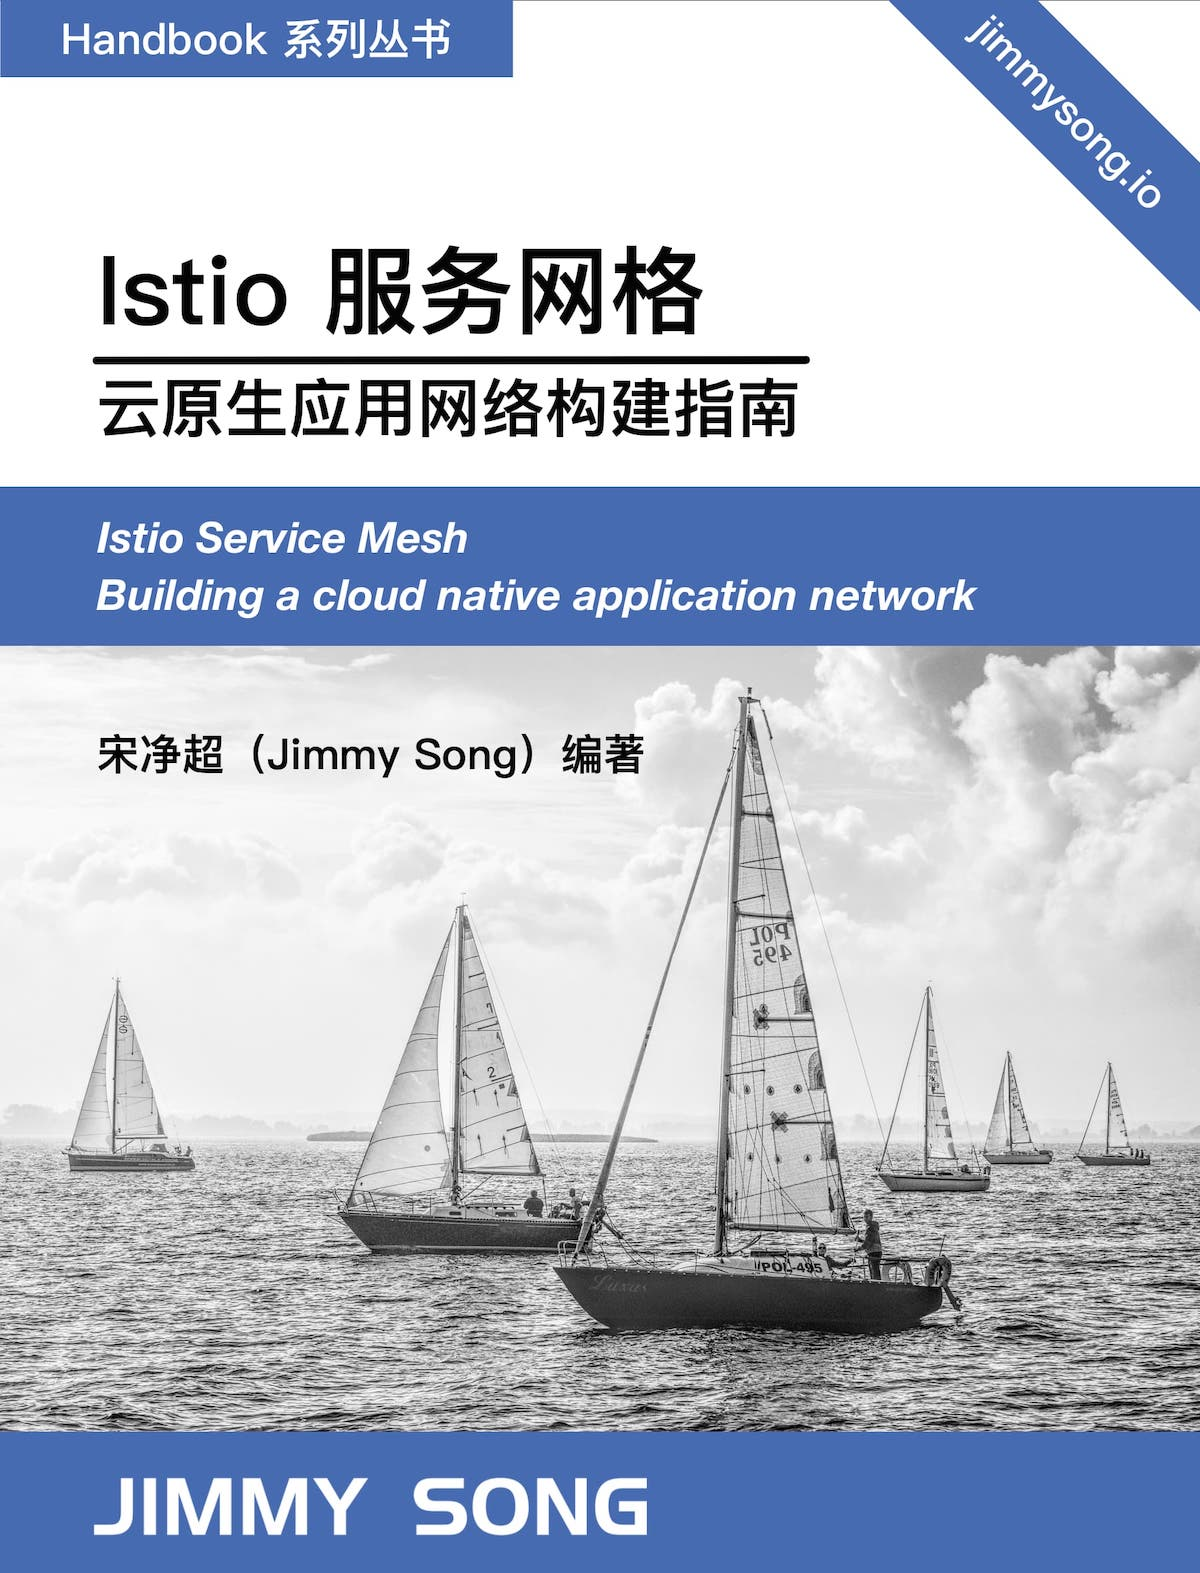
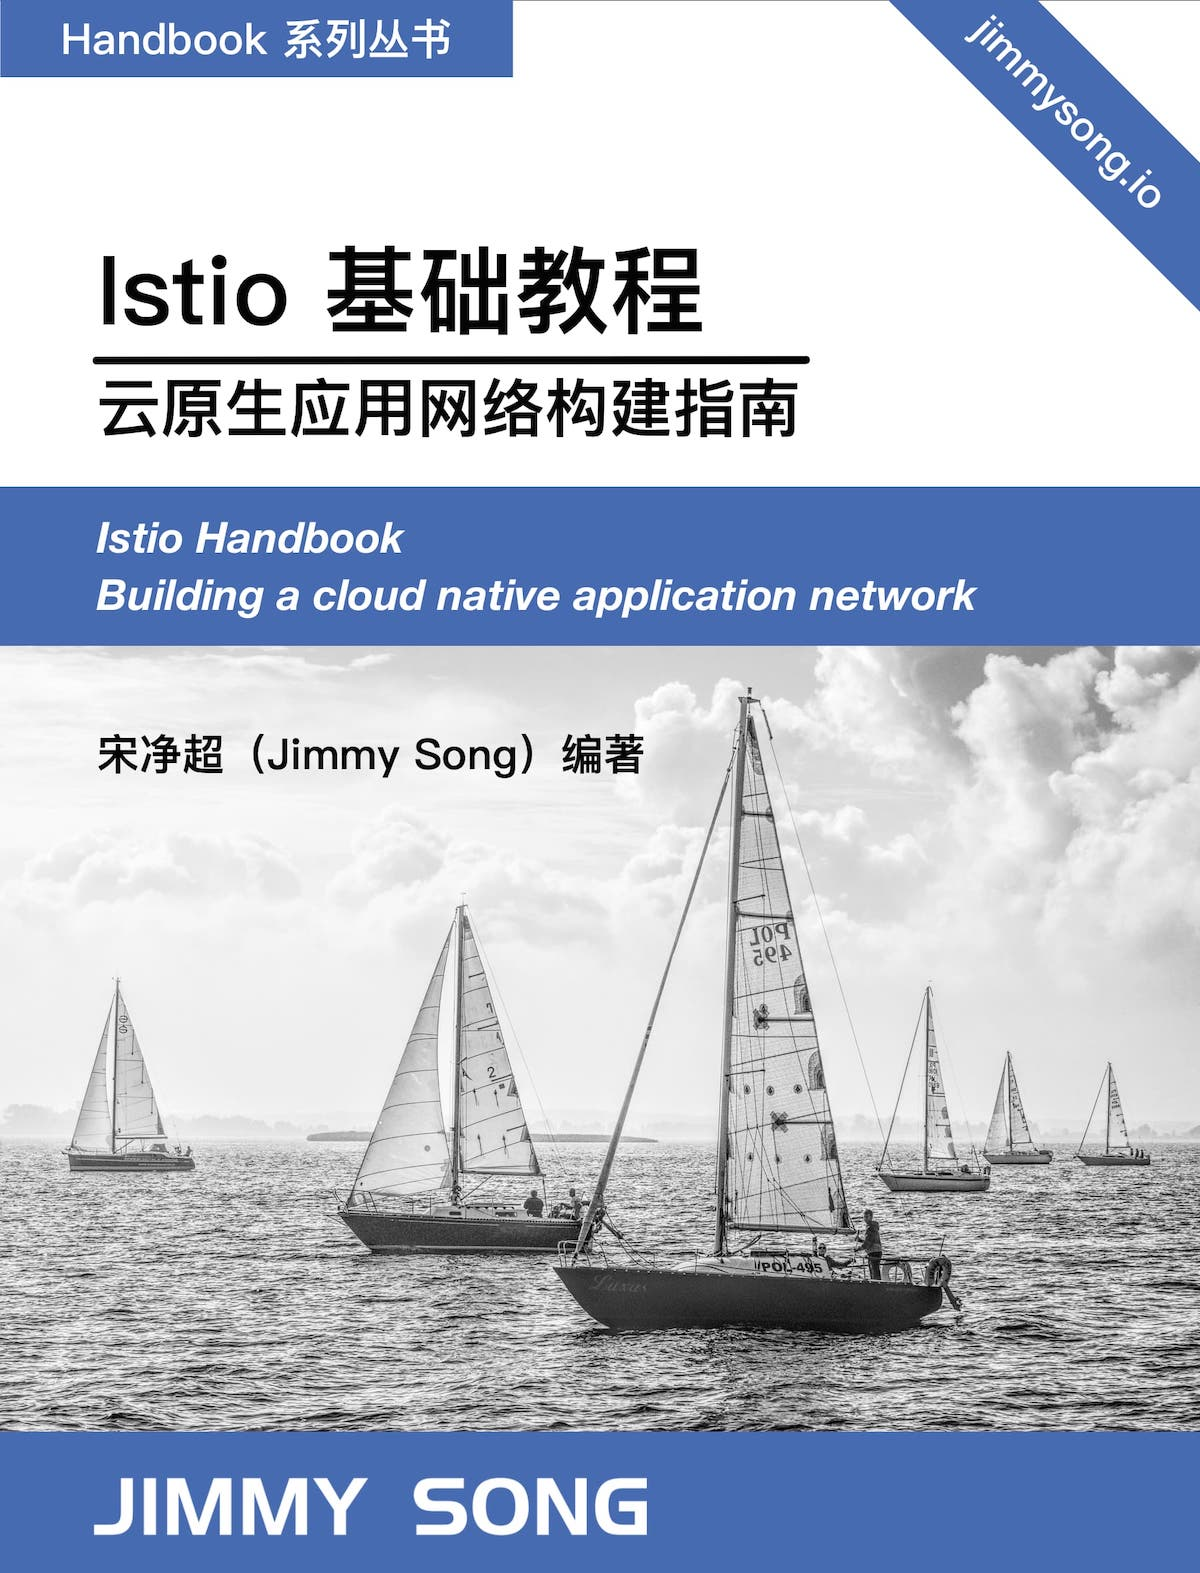
update title

Changed region(s): [[0.2775, 0.1558, 0.5858, 0.2181], [0.1542, 0.3115, 0.4008, 0.3738]]

diff --git a/content/istio-handbook/_index.md b/content/istio-handbook/_index.md
@@ -1,10 +1,10 @@
 ---
-linktitle: Istio服务网格基础教程
+linktitle: Istio基础教程
 summary: 云原生应用网络构建指南。
 weight: 1
 icon: book
 icon_pack: fas
-title: Istio服务网格基础教程
+title: Istio基础教程
 date: '2022-05-18T00:00:00+08:00'
 type: book # Do not modify.
 ---

diff --git a/content/book/istio-handbook/index.md b/content/book/istio-handbook/index.md
@@ -1,5 +1,5 @@
 ---
-title: Istio服务网格基础教程🔥
+title: Istio基础教程🔥
 summary: 云原生应用网络构建指南
 tags:
   - handbook
